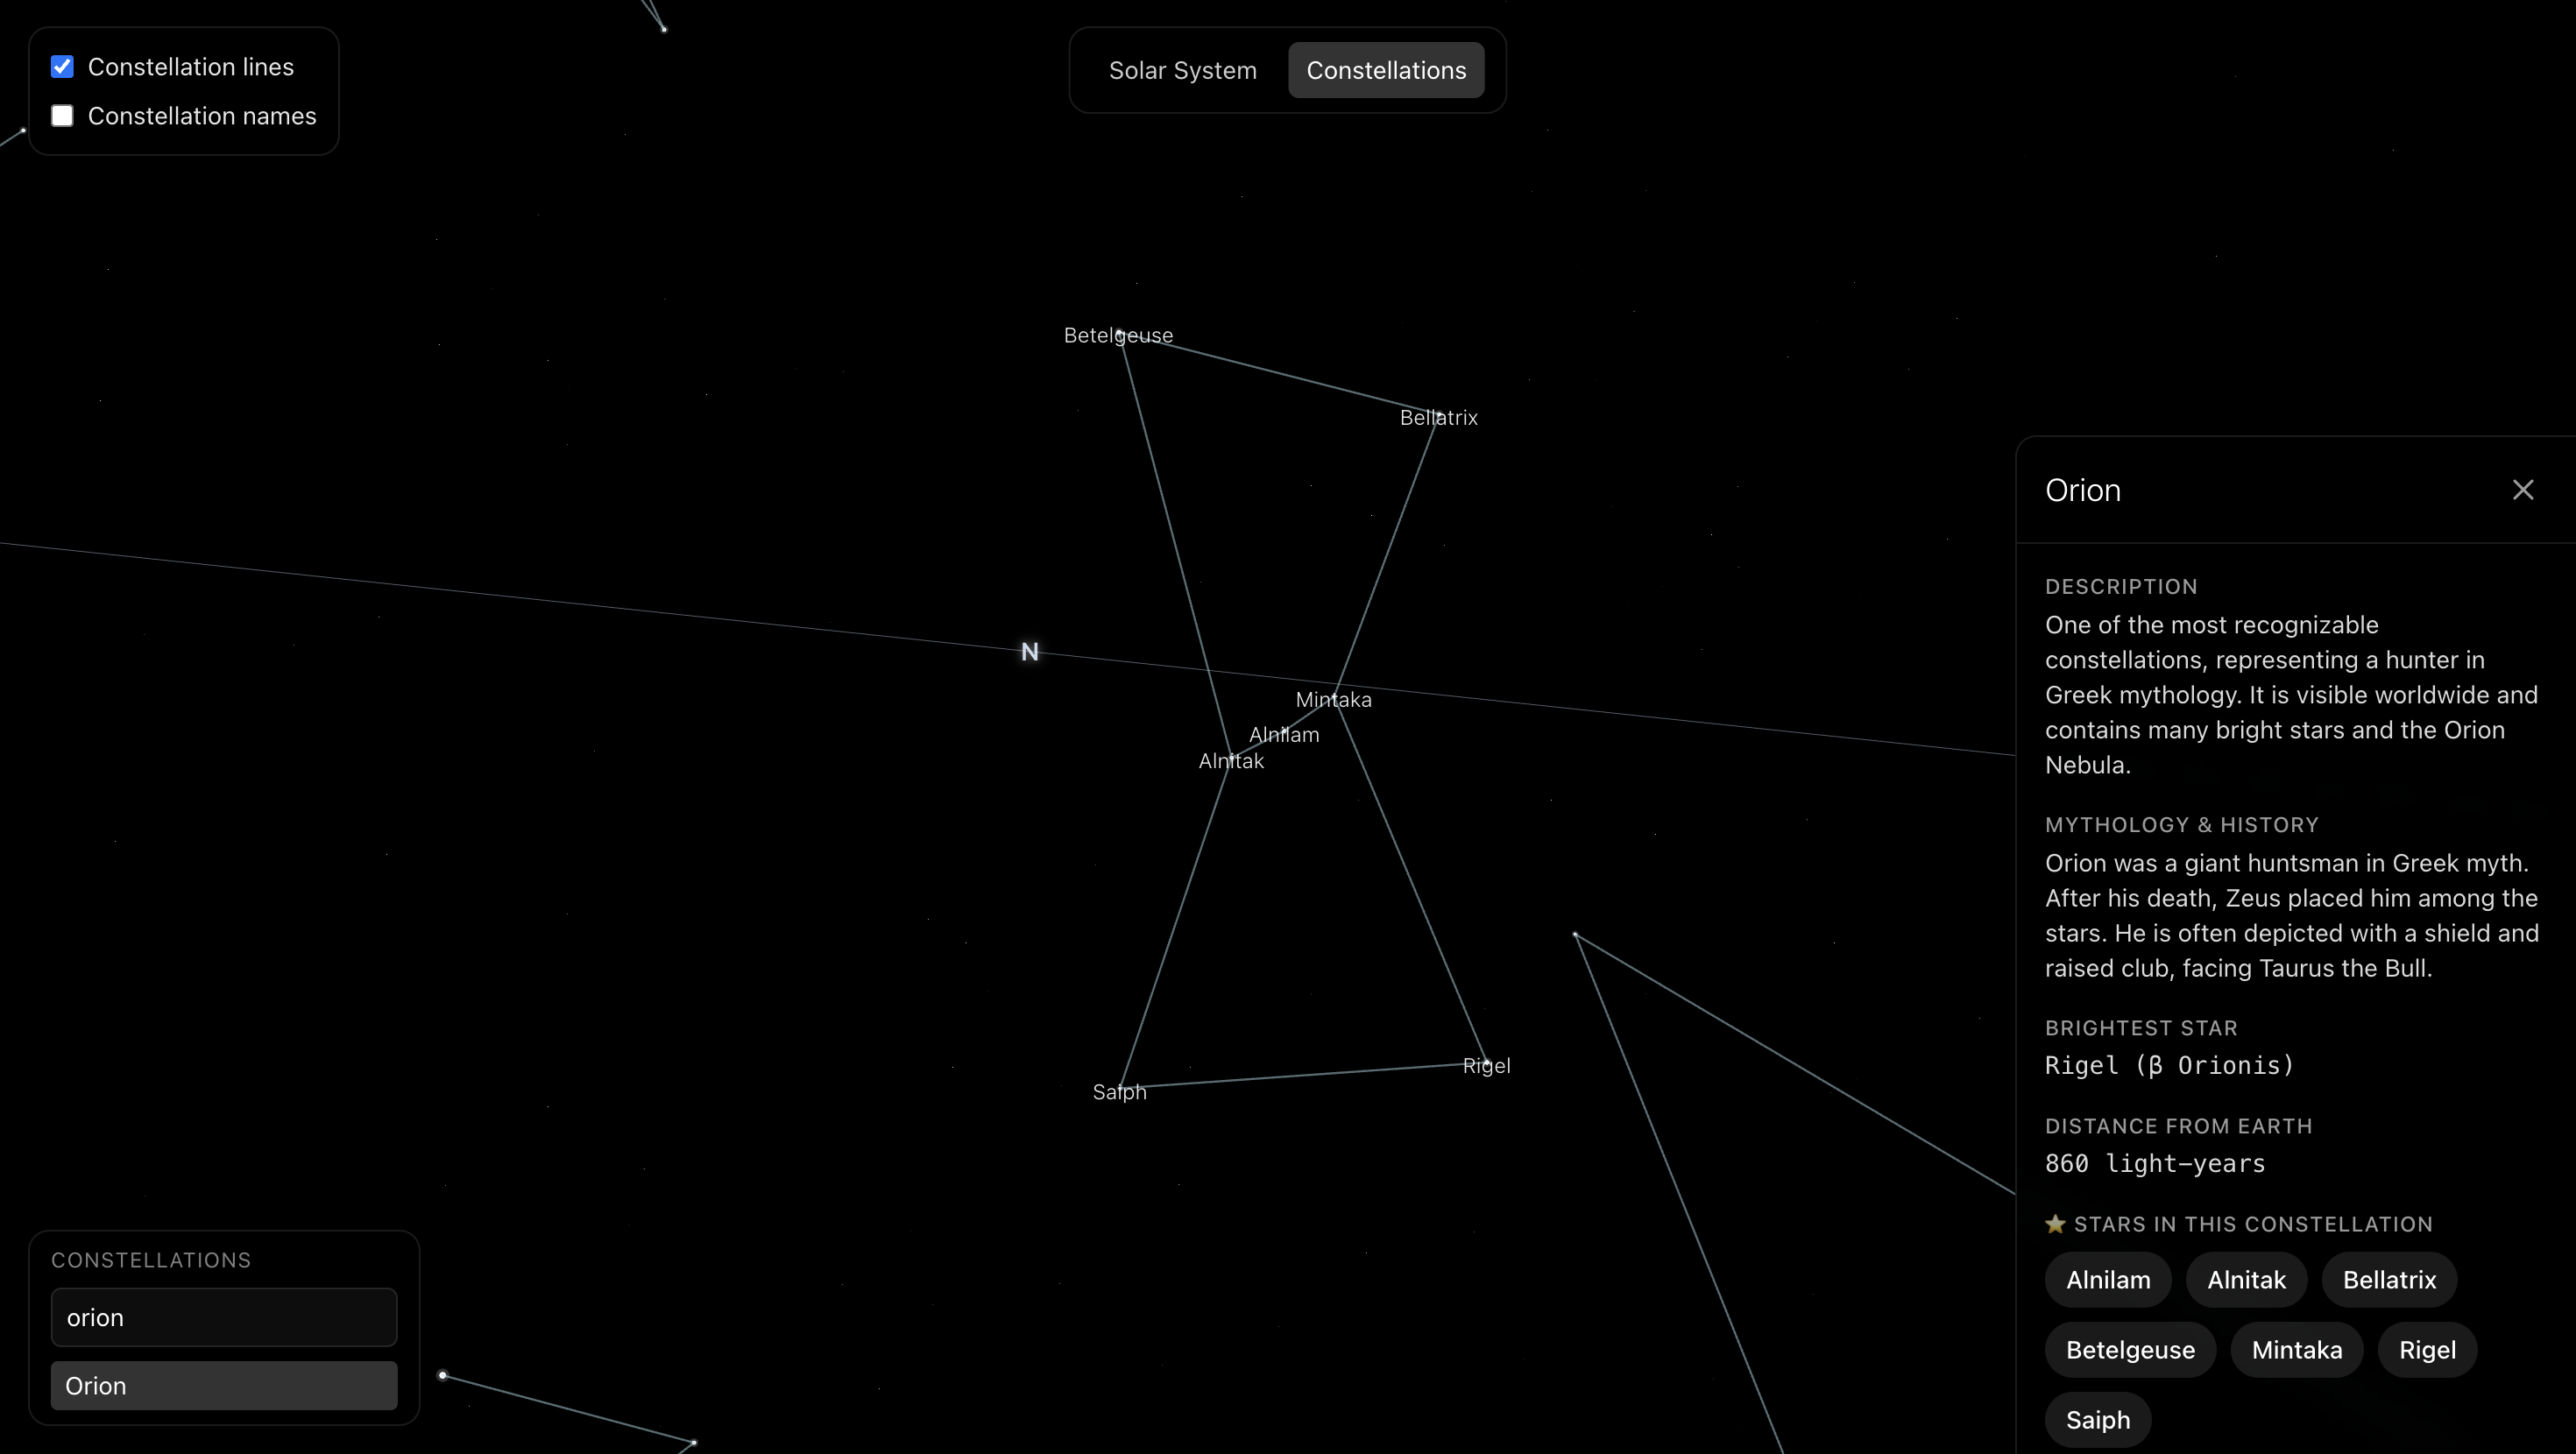
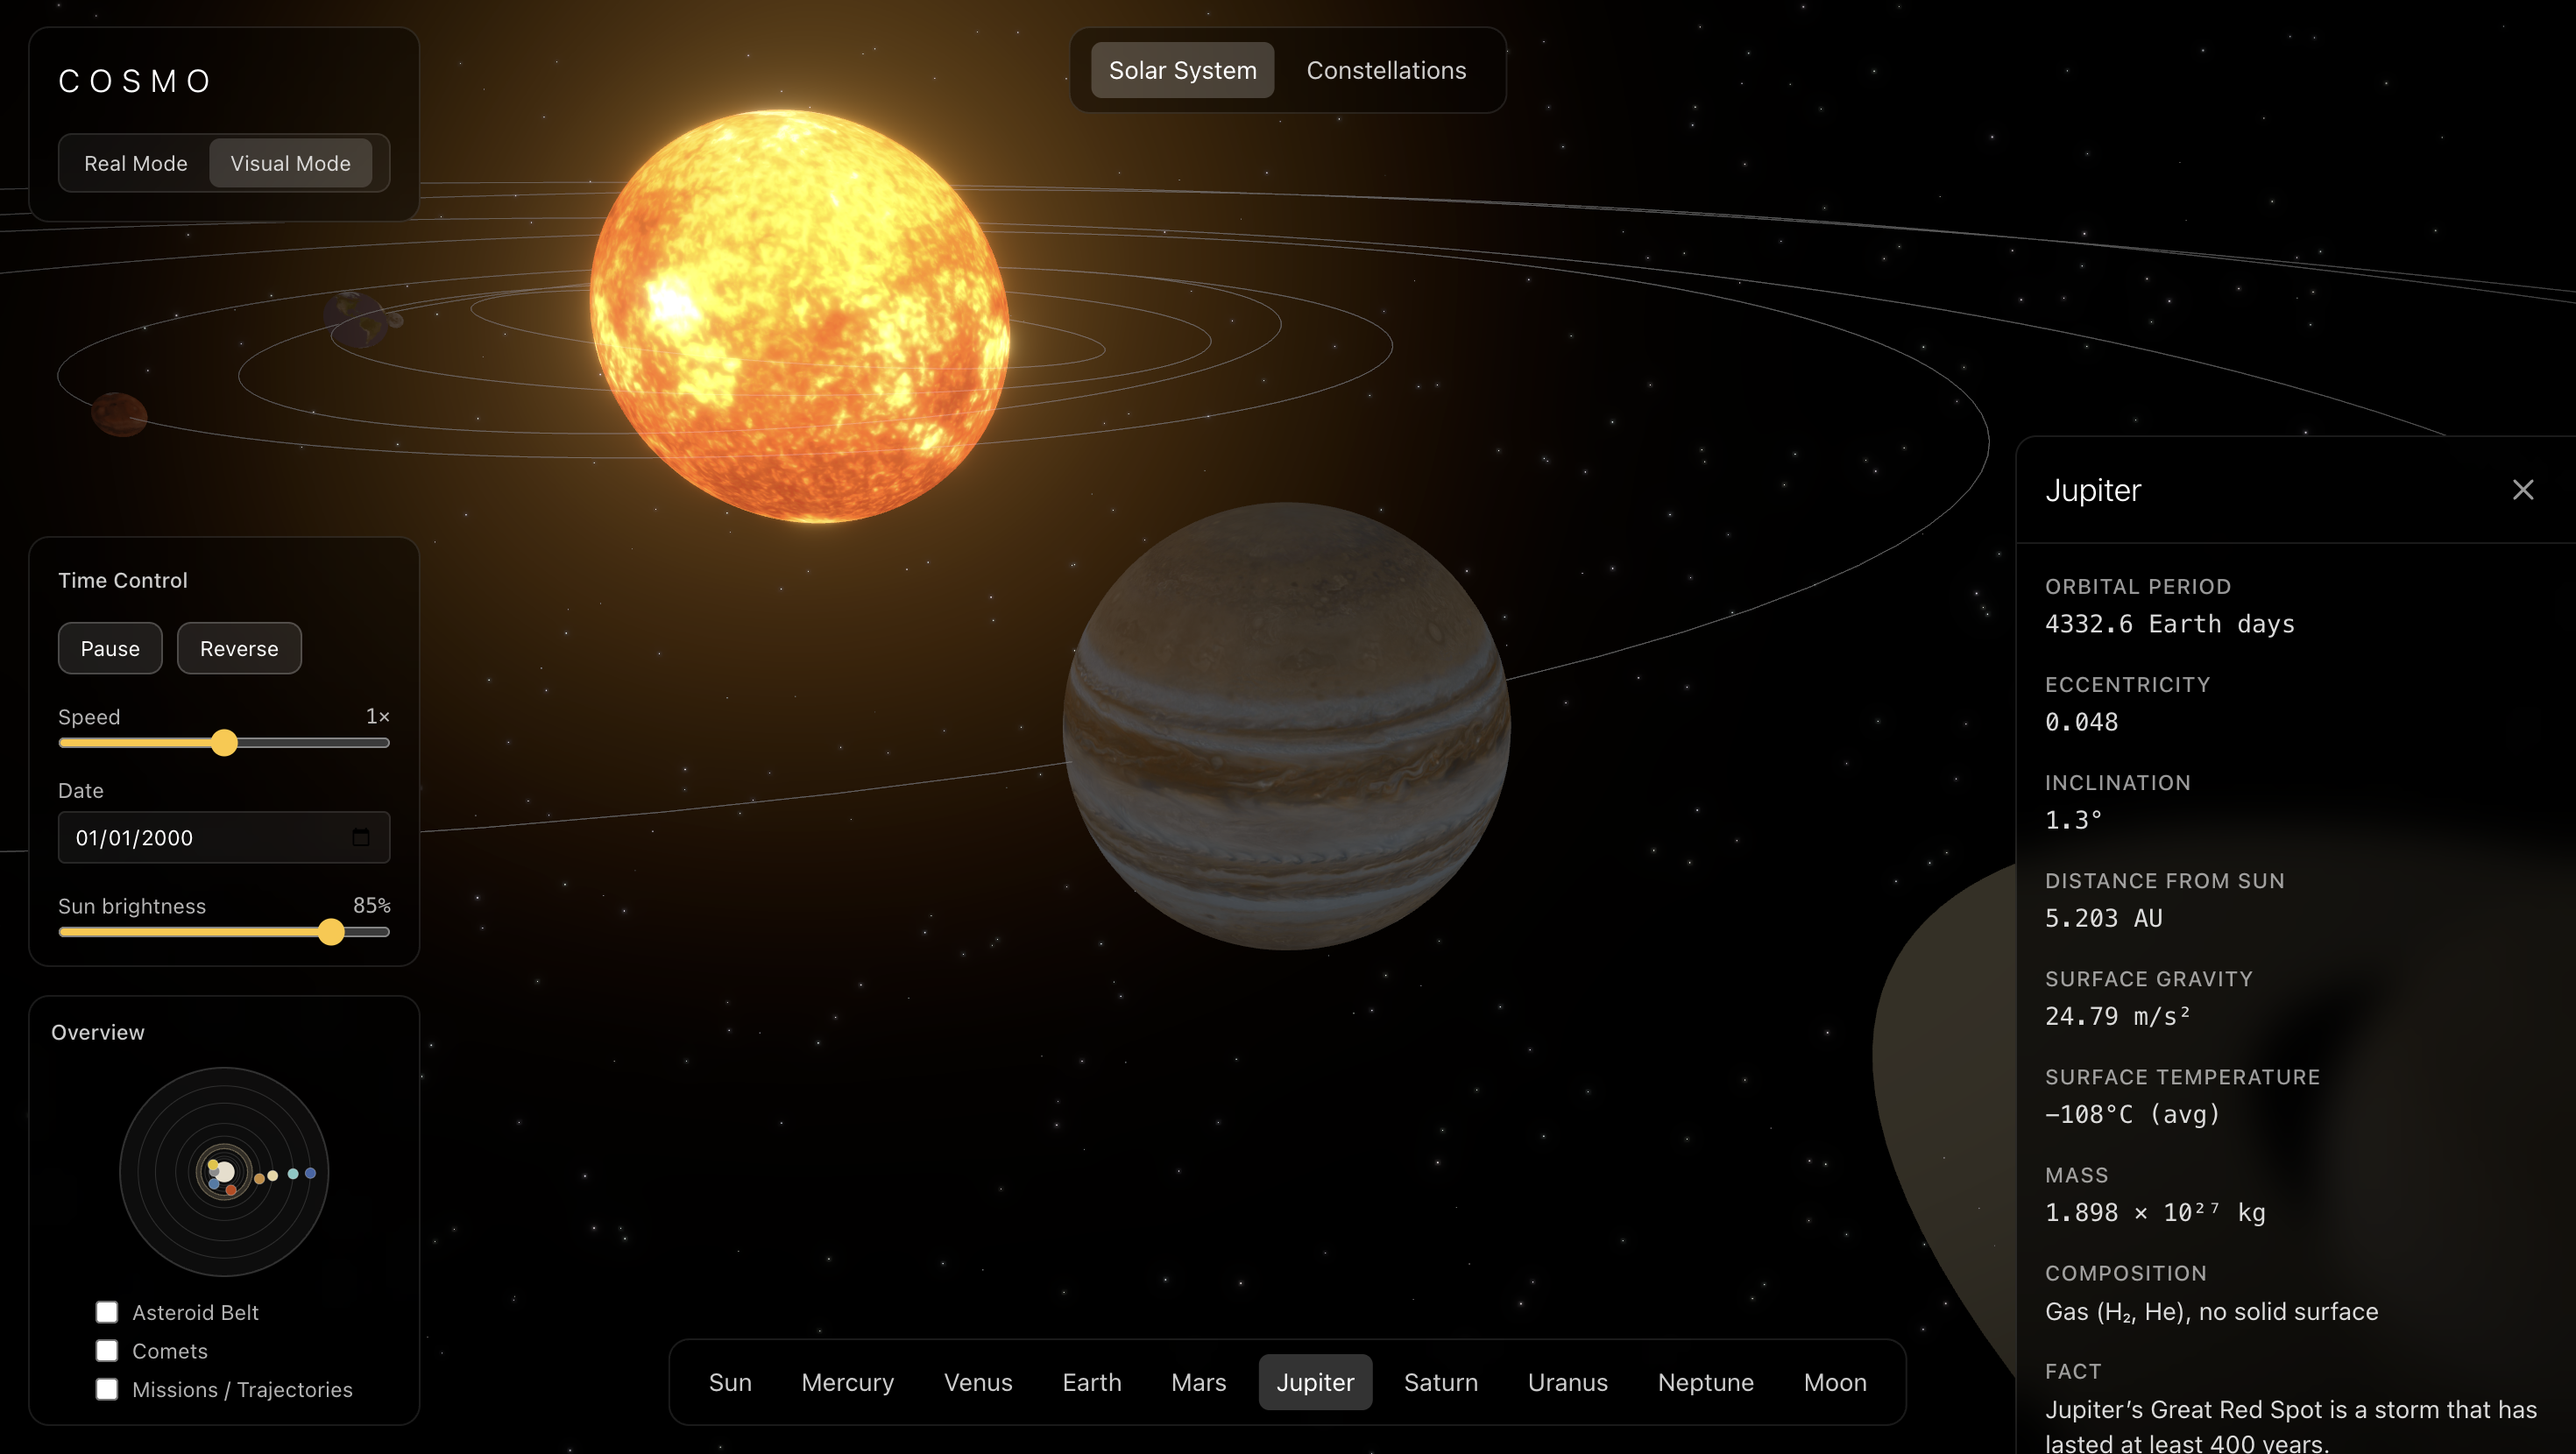
portfolio

diff --git a/galaxy/src/pages/Index.tsx b/galaxy/src/pages/Index.tsx
@@ -6,94 +6,112 @@ import { Button } from "@/components/ui/button";
 // ASCII density chars from dark to light
 const DENSITY = " .:-=+*#%@";
 
-// Lunar surface brightness map (rows × cols); `rotationRad` slowly spins the lit texture on the disc
-function generateMoonASCII(rows: number, cols: number, rotationRad: number): string[] {
-  const lines: string[] = [];
+type MoonCell = { brightness: number; nx: number; ny: number };
+
+/**
+ * Mineral color inspired by true-color Moon photos: broad blue-gray western maria,
+ * gold / honey north, rust–umber east and mid-basins. Stronger in dark mare,
+ * plus a gentle whole-disk wash so bright terrain still reads tinted.
+ */
+function mineralTintRgb(nx: number, ny: number, brightness: number): [number, number, number] {
+  const b = Math.max(0, Math.min(1, brightness));
+  const mare = Math.pow(1 - b, 0.75);
+  const mariaBoost = 0.35 + 0.92 * mare;
+  const wash = 0.28 + 0.45 * (1 - b);
+
+  // --- Sharp maria / basin color (follows darker albedo) ---
+  const blueWest = Math.exp(-((nx - 0.12) ** 2 * 11 + (ny - 0.38) ** 2 * 8));
+  const blueLowerRight = Math.exp(-((nx - 0.74) ** 2 * 14 + (ny - 0.68) ** 2 * 11));
+  const blueSW = Math.exp(-((nx - 0.24) ** 2 * 7 + (ny - 0.76) ** 2 * 9)) * 0.7;
+  const bluePeak = blueWest * 0.95 + blueLowerRight * 0.92 + blueSW;
+  const blueMix = bluePeak * mariaBoost * 0.95;
+
+  const goldNorth = Math.exp(-((nx - 0.36) ** 2 * 6 + (ny - 0.12) ** 2 * 14));
+  const rustEast = Math.exp(-((nx - 0.78) ** 2 * 11 + (ny - 0.24) ** 2 * 10));
+  const umberMid = Math.exp(-((nx - 0.56) ** 2 * 8 + (ny - 0.5) ** 2 * 7)) * 0.75;
+  const warmPeak = goldNorth * 0.88 + rustEast * 0.98 + umberMid * 0.62;
+  const warmMix = warmPeak * mariaBoost * 0.92;
+
+  let dR = warmMix * 48 - blueMix * 14 + umberMid * mariaBoost * 22;
+  let dG = warmMix * 28 - blueMix * 8 - umberMid * mariaBoost * 10;
+  let dB = blueMix * 52 - warmMix * 12;
+
+  // --- Broad, soft wash (visible on highlands too, like the reference photo) ---
+  const coolHem = Math.exp(-((nx - 0.22) ** 2 * 4.5 + (ny - 0.48) ** 2 * 3.8));
+  const warmHem = Math.exp(-((nx - 0.62) ** 2 * 4 + (ny - 0.32) ** 2 * 5.5));
+  dR += warmHem * wash * 22;
+  dG += warmHem * wash * 14 + coolHem * wash * 4;
+  dB += coolHem * wash * 26 - warmHem * wash * 8;
+
+  return [dR, dG, dB];
+}
+
+function moonCellAt(
+  x: number,
+  y: number,
+  rows: number,
+  cols: number,
+  rotationRad: number
+): MoonCell | null {
   const cx = cols / 2;
   const cy = rows / 2;
   const r = Math.min(cx, cy);
   const cos = Math.cos(rotationRad);
   const sin = Math.sin(rotationRad);
+  const dy = (y - cy) / r;
+  const dx = (x - cx) / r;
+  const dist = Math.sqrt(dx * dx + dy * dy);
+  if (dist > 1) return null;
 
-  for (let y = 0; y < rows; y++) {
-    let line = "";
-    const dy = (y - cy) / r;
+  const rdx = cos * dx - sin * dy;
+  const rdy = sin * dx + cos * dy;
 
-    for (let x = 0; x < cols; x++) {
-      const dx = (x - cx) / r;
-      const dist = Math.sqrt(dx * dx + dy * dy);
+  const nz = Math.sqrt(Math.max(0, 1 - rdx * rdx - rdy * rdy));
+  let brightness = Math.max(0, 0.3 * rdx + 0.2 * (-rdy) + 0.9 * nz);
 
-      if (dist > 1) {
-        line += " ";
-        continue;
-      }
+  const nx = (rdx + 1) / 2;
+  const ny = (rdy + 1) / 2;
 
-      // Rotate surface coordinates for slow libration-style drift of albedo features
-      const rdx = cos * dx - sin * dy;
-      const rdy = sin * dx + cos * dy;
+  const imbriumDist = Math.sqrt((nx - 0.35) ** 2 + (ny - 0.25) ** 2);
+  if (imbriumDist < 0.2) brightness *= 0.45 + 0.55 * (imbriumDist / 0.2);
 
-      const nz = Math.sqrt(Math.max(0, 1 - rdx * rdx - rdy * rdy));
-      let brightness = Math.max(0, 0.3 * rdx + 0.2 * (-rdy) + 0.9 * nz);
+  const serenitatisDist = Math.sqrt((nx - 0.6) ** 2 + (ny - 0.3) ** 2);
+  if (serenitatisDist < 0.12) brightness *= 0.5 + 0.5 * (serenitatisDist / 0.12);
 
-      const nx = (rdx + 1) / 2;
-      const ny = (rdy + 1) / 2;
+  const tranqDist = Math.sqrt((nx - 0.65) ** 2 + (ny - 0.48) ** 2);
+  if (tranqDist < 0.14) brightness *= 0.45 + 0.55 * (tranqDist / 0.14);
 
-      // Mare Imbrium (upper-left)
-      const imbriumDist = Math.sqrt((nx - 0.35) ** 2 + (ny - 0.25) ** 2);
-      if (imbriumDist < 0.2) brightness *= 0.45 + 0.55 * (imbriumDist / 0.2);
+  const crisiumDist = Math.sqrt((nx - 0.8) ** 2 + (ny - 0.38) ** 2);
+  if (crisiumDist < 0.07) brightness *= 0.5 + 0.5 * (crisiumDist / 0.07);
 
-      // Mare Serenitatis (upper-right of center)
-      const serenitatisDist = Math.sqrt((nx - 0.6) ** 2 + (ny - 0.3) ** 2);
-      if (serenitatisDist < 0.12) brightness *= 0.5 + 0.5 * (serenitatisDist / 0.12);
+  const nubiumDist = Math.sqrt((nx - 0.4) ** 2 + (ny - 0.65) ** 2);
+  if (nubiumDist < 0.1) brightness *= 0.55 + 0.45 * (nubiumDist / 0.1);
 
-      // Mare Tranquillitatis (center-right)
-      const tranqDist = Math.sqrt((nx - 0.65) ** 2 + (ny - 0.48) ** 2);
-      if (tranqDist < 0.14) brightness *= 0.45 + 0.55 * (tranqDist / 0.14);
+  const fecDist = Math.sqrt((nx - 0.7) ** 2 + (ny - 0.55) ** 2);
+  if (fecDist < 0.1) brightness *= 0.5 + 0.5 * (fecDist / 0.1);
 
-      // Mare Crisium (far right)
-      const crisiumDist = Math.sqrt((nx - 0.8) ** 2 + (ny - 0.38) ** 2);
-      if (crisiumDist < 0.07) brightness *= 0.5 + 0.5 * (crisiumDist / 0.07);
+  const procDist = Math.sqrt((nx - 0.25) ** 2 + (ny - 0.45) ** 2);
+  if (procDist < 0.18) brightness *= 0.5 + 0.5 * (procDist / 0.18);
 
-      // Mare Nubium (lower center-left)
-      const nubiumDist = Math.sqrt((nx - 0.4) ** 2 + (ny - 0.65) ** 2);
-      if (nubiumDist < 0.1) brightness *= 0.55 + 0.45 * (nubiumDist / 0.1);
-
-      // Mare Fecunditatis (right of center-low)
-      const fecDist = Math.sqrt((nx - 0.7) ** 2 + (ny - 0.55) ** 2);
-      if (fecDist < 0.1) brightness *= 0.5 + 0.5 * (fecDist / 0.1);
-
-      // Oceanus Procellarum (large, left side)
-      const procDist = Math.sqrt((nx - 0.25) ** 2 + (ny - 0.45) ** 2);
-      if (procDist < 0.18) brightness *= 0.5 + 0.5 * (procDist / 0.18);
-
-      // Tycho crater (lower, bright with rays)
-      const tychoDist = Math.sqrt((nx - 0.45) ** 2 + (ny - 0.78) ** 2);
-      if (tychoDist < 0.03) brightness = Math.min(1, brightness + 0.5);
-      const angle = Math.atan2(ny - 0.78, nx - 0.45);
-      if (tychoDist < 0.25 && tychoDist > 0.03) {
-        const rayPattern = Math.abs(Math.sin(angle * 7));
-        if (rayPattern > 0.88) brightness = Math.min(1, brightness + 0.12 * (1 - tychoDist / 0.25));
-      }
-
-      // Copernicus crater
-      const copDist = Math.sqrt((nx - 0.38) ** 2 + (ny - 0.47) ** 2);
-      if (copDist < 0.03) brightness = Math.min(1, brightness + 0.35);
-
-      // Texture noise (follow rotated cell indices for coherence)
-      const noise =
-        Math.sin(x * 13.7 + y * 7.3 + rotationRad * 8) * 0.04 +
-        Math.sin(x * 5.1 + y * 11.9 - rotationRad * 5) * 0.03;
-      brightness = Math.max(0, Math.min(1, brightness + noise));
-
-      // Limb darkening (keep silhouette from unrotated disc)
-      if (dist > 0.85) brightness *= (1 - dist) / 0.15;
-
-      const idx = Math.floor(brightness * (DENSITY.length - 1));
-      line += DENSITY[Math.min(DENSITY.length - 1, Math.max(0, idx))];
-    }
-    lines.push(line);
+  const tychoDist = Math.sqrt((nx - 0.45) ** 2 + (ny - 0.78) ** 2);
+  if (tychoDist < 0.03) brightness = Math.min(1, brightness + 0.5);
+  const angle = Math.atan2(ny - 0.78, nx - 0.45);
+  if (tychoDist < 0.25 && tychoDist > 0.03) {
+    const rayPattern = Math.abs(Math.sin(angle * 7));
+    if (rayPattern > 0.88) brightness = Math.min(1, brightness + 0.12 * (1 - tychoDist / 0.25));
   }
-  return lines;
+
+  const copDist = Math.sqrt((nx - 0.38) ** 2 + (ny - 0.47) ** 2);
+  if (copDist < 0.03) brightness = Math.min(1, brightness + 0.35);
+
+  const noise =
+    Math.sin(x * 13.7 + y * 7.3 + rotationRad * 8) * 0.04 +
+    Math.sin(x * 5.1 + y * 11.9 - rotationRad * 5) * 0.03;
+  brightness = Math.max(0, Math.min(1, brightness + noise));
+
+  if (dist > 0.85) brightness *= (1 - dist) / 0.15;
+
+  return { brightness, nx, ny };
 }
 
 const MOON_ASCII_ROWS = 80;
@@ -120,28 +138,36 @@ const MoonCanvas = ({ size }: { size: number }) => {
     ctx.setTransform(dpr, 0, 0, dpr, 0, 0);
     ctx.clearRect(0, 0, size, size);
 
-    const asciiLines = generateMoonASCII(MOON_ASCII_ROWS, MOON_ASCII_COLS, angleRef.current);
+    const rad = angleRef.current;
+    const rows = MOON_ASCII_ROWS;
+    const cols = MOON_ASCII_COLS;
 
     ctx.save();
     ctx.beginPath();
     ctx.arc(size / 2, size / 2, size / 2, 0, Math.PI * 2);
     ctx.clip();
 
-    const charH = size / MOON_ASCII_ROWS;
-    const charW = size / MOON_ASCII_COLS;
+    const charH = size / rows;
+    const charW = size / cols;
     const fontSize = Math.min(charH * 0.95, charW * 1.5);
 
     ctx.font = `${fontSize}px 'JetBrains Mono', monospace`;
     ctx.textBaseline = "top";
 
-    for (let row = 0; row < asciiLines.length; row++) {
-      const line = asciiLines[row];
-      for (let col = 0; col < line.length; col++) {
-        const ch = line[col];
+    for (let row = 0; row < rows; row++) {
+      for (let col = 0; col < cols; col++) {
+        const cell = moonCellAt(col, row, rows, cols, rad);
+        if (!cell) continue;
+        const idx = Math.floor(cell.brightness * (DENSITY.length - 1));
+        const ch = DENSITY[Math.min(DENSITY.length - 1, Math.max(0, idx))];
         if (ch === " ") continue;
-        const brightness = DENSITY.indexOf(ch) / (DENSITY.length - 1);
-        const alpha = 0.3 + brightness * 0.7;
-        ctx.fillStyle = `rgba(220,220,230,${alpha})`;
+        const alpha = 0.38 + cell.brightness * 0.62;
+        const base = 188 + cell.brightness * 42;
+        const [dr, dg, db] = mineralTintRgb(cell.nx, cell.ny, cell.brightness);
+        const r = Math.max(0, Math.min(255, Math.round(base + dr)));
+        const g = Math.max(0, Math.min(255, Math.round(base + dg)));
+        const b = Math.max(0, Math.min(255, Math.round(base + db)));
+        ctx.fillStyle = `rgba(${r},${g},${b},${alpha})`;
         ctx.fillText(ch, col * charW, row * charH);
       }
     }